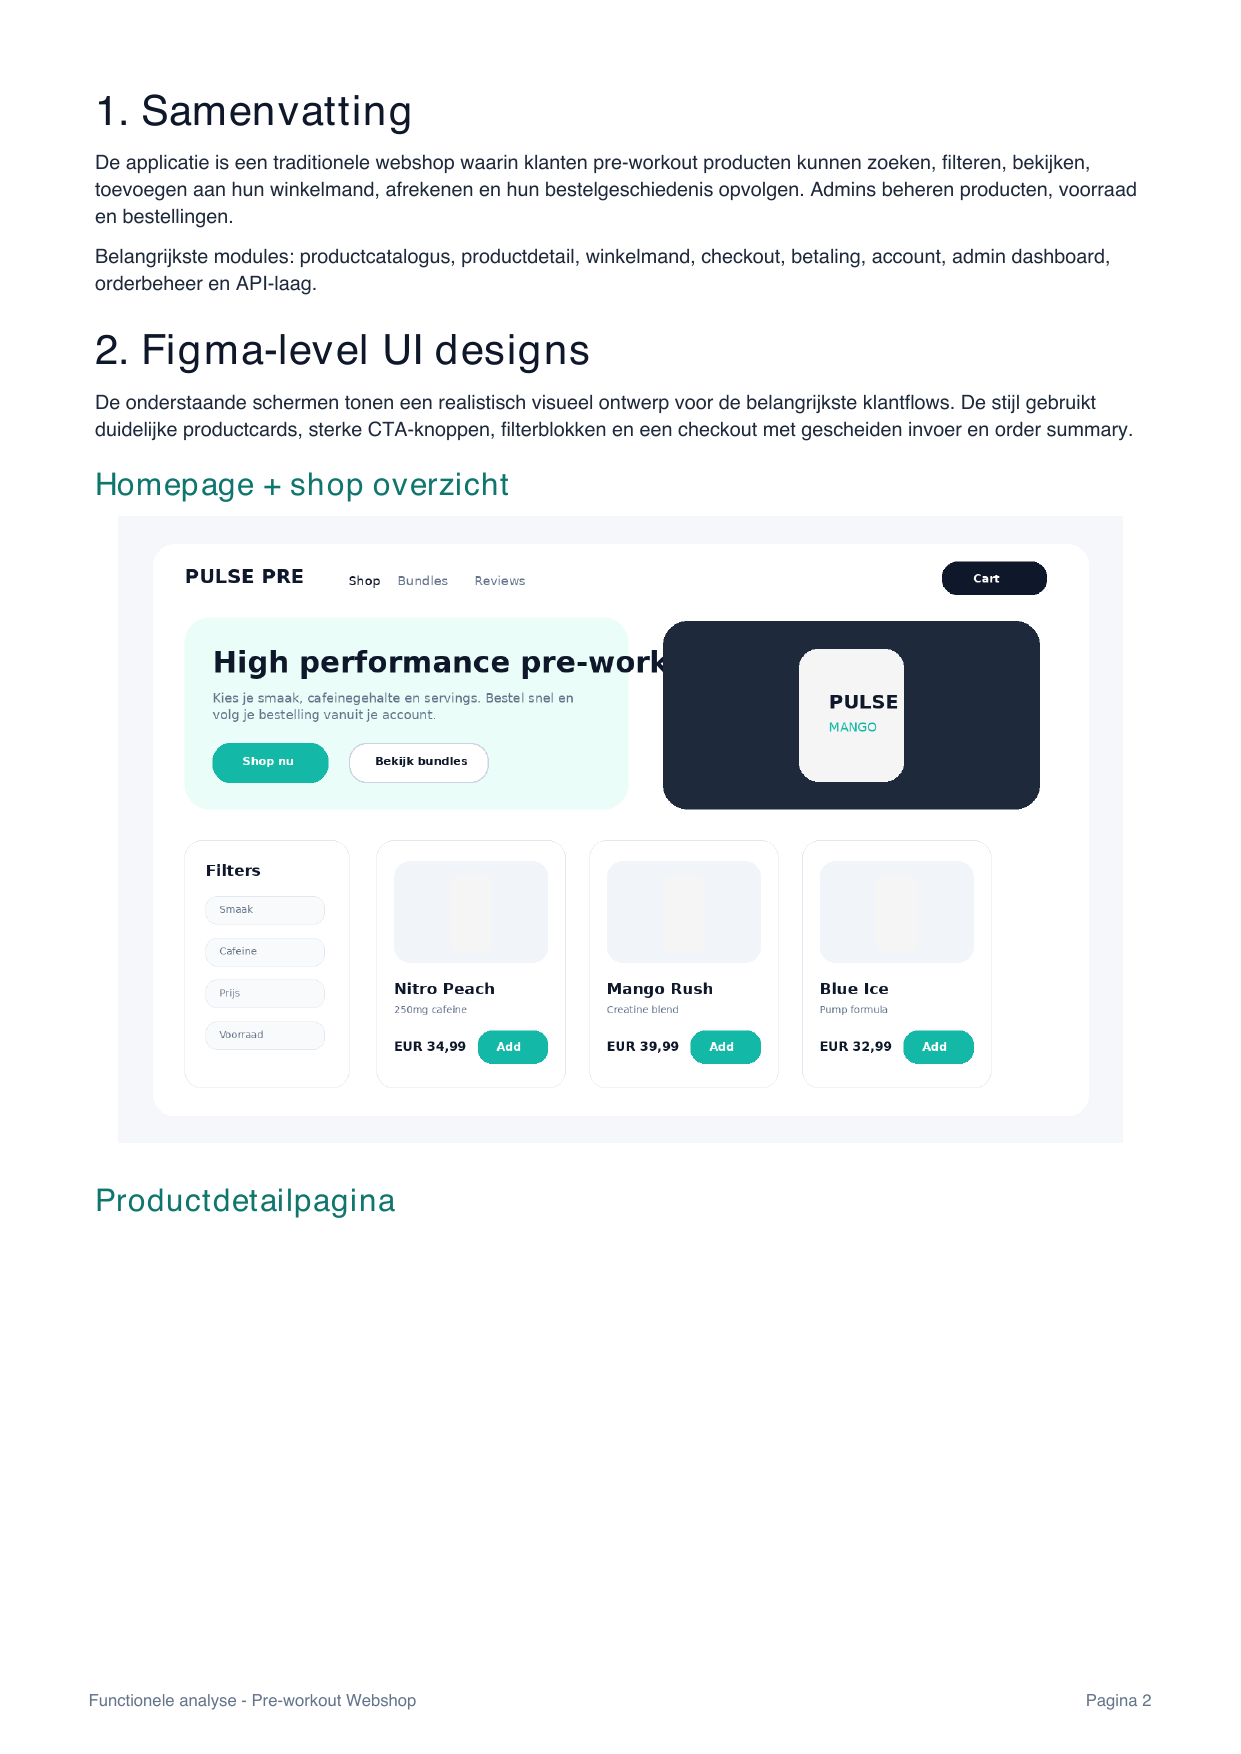
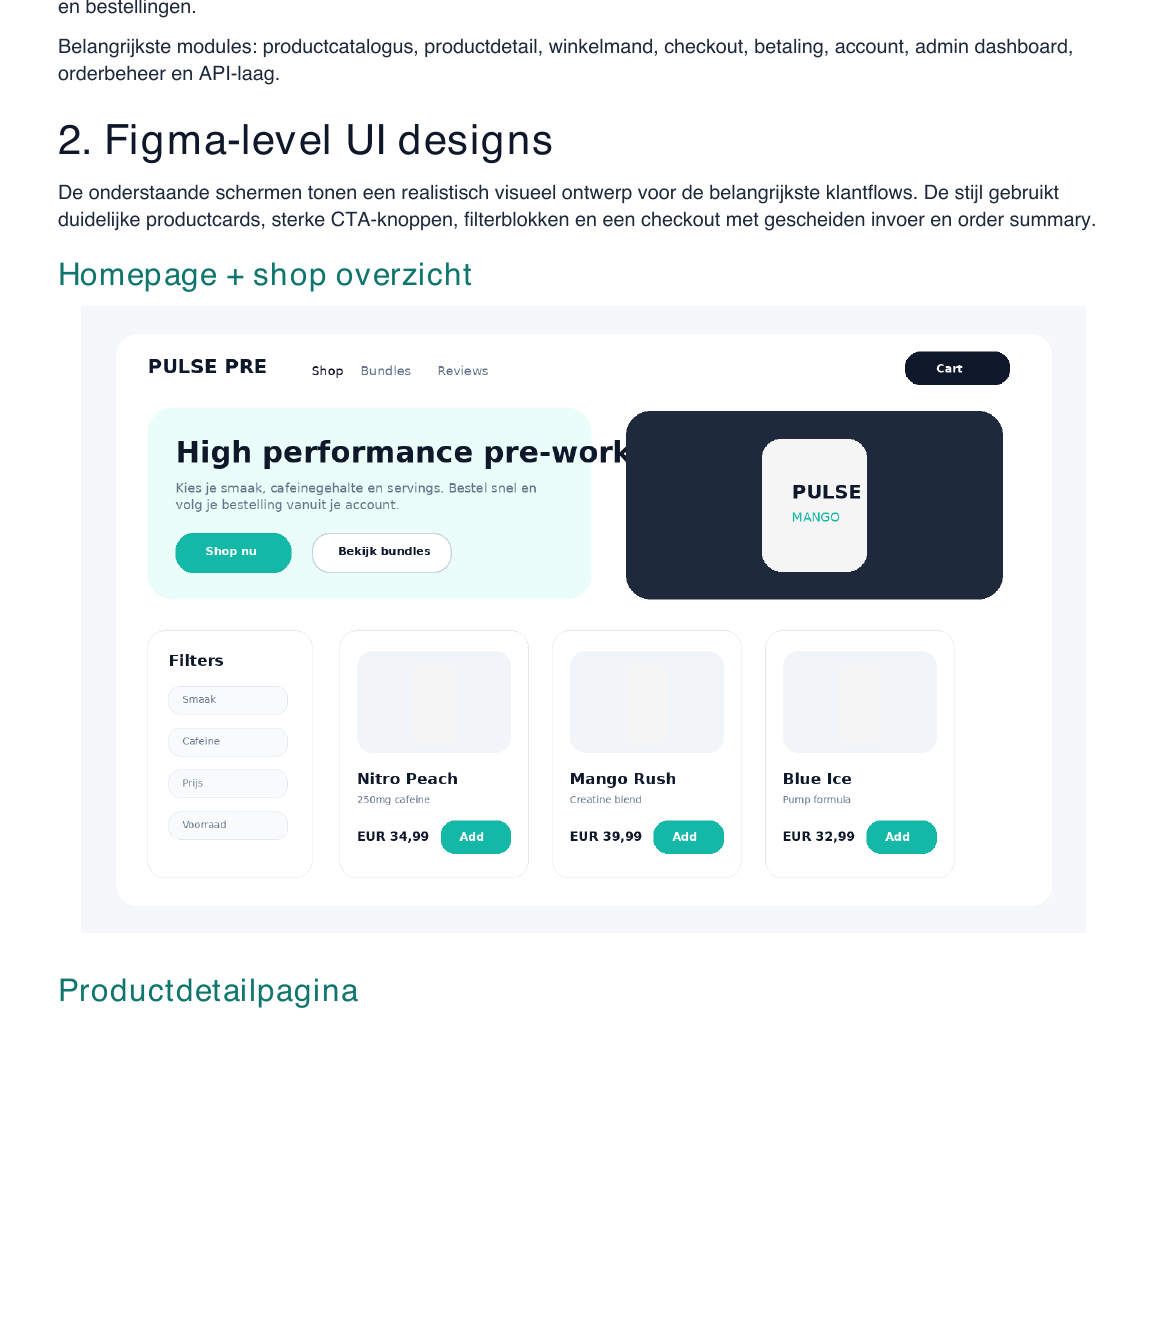
docs(fa): update feature-011 FA with cropped diagram and UI design images
Page images are now cropped to content area only, removing headers,
footers and surrounding whitespace from each diagram page.

diff --git a/docs/functional-analysis/feature-011-preworkout-website.md b/docs/functional-analysis/feature-011-preworkout-website.md
@@ -2,91 +2,68 @@
 
 ## Project
 
-| Project |  |
+| Project | Full stack webshop voor pre-workout supplementen |
 |---|---|
-| Primaire actor | Full stack webshop voor pre-workout supplementen |
-| Secundaire actor | Klant |
-|  | Admin, betalingsprovider |
+| Primaire actor | Klant |
+| Secundaire actor | Admin, betalingsprovider |
 
-Uitgebreide versie met Figma-level UI designs, UML diagrams, database ERD en API contracten.
+## 2. Figma-level UI designs
 
-## Samenvatting
+![Figma-level UI designs](feature-011-preworkout-website/page-2.png)
 
-De applicatie is een traditionele webshop waarin klanten pre-workout producten kunnen zoeken, filteren, bekijken, toevoegen aan hun winkelmand, afrekenen en hun bestelgeschiedenis opvolgen. Admins beheren producten, voorraad en bestellingen.
-
-Belangrijkste modules: productcatalogus, productdetail, winkelmand, checkout, betaling, account, admin dashboard, orderbeheer en API-laag.
-
-## Figma-level UI designs
-
-De onderstaande schermen tonen een realistisch visueel ontwerp voor de belangrijkste klantflows. De stijl gebruikt duidelijke productcards, sterke CTA-knoppen, filterblokken en een checkout met gescheiden invoer en order summary.
+Deze schermen tonen een realistisch visueel ontwerp voor de belangrijkste klantflows. De stijl gebruikt duidelijke productcards, sterke CTA-knoppen, filterblokken en een checkout met gescheiden invoer en order summary.
 
 ### Homepage + shop overzicht
 
-![Homepage + shop overzicht](feature-011-preworkout-website/page-2.png)
-
-Dit scherm toont de homepage met een hero sectie en een overzicht van beschikbare producten. Klanten kunnen producten filteren op basis van verschillende criteria.
-
 ### Productdetailpagina
-
-![Productdetailpagina](feature-011-preworkout-website/page-3.png)
-
-Dit scherm toont de detailpagina van een specifiek product. Hier kan de klant meer informatie vinden, het product toevoegen aan de winkelmand en eventueel favoriet maken.
 
 ### Checkout en order summary
 
-![Checkout en order summary](feature-011-preworkout-website/page-4.png)
+## Sequence diagram - checkout en betaling
 
-Dit scherm toont het checkout proces, inclusief velden voor verzendgegevens en betaalmethoden. De order summary toont een overzicht van de geselecteerde producten en de totale kosten.
+![Sequence diagram - checkout en betaling](feature-011-preworkout-website/page-4.png)
 
-## Uitgebreide UML diagrams
+Deze flow toont hoe klant, frontend, API, database en betalingsprovider samenwerken bij afrekenen.
 
-De UML diagrammen ondersteunen de analyse van gedrag, architectuurcomponenten en deployment.
+## Component diagram
 
-### Sequence diagram - checkout en betaling
+![Component diagram](feature-011-preworkout-website/page-5.png)
 
-![Sequence diagram - checkout en betaling](feature-011-preworkout-website/page-5.png)
+Dit diagram toont de interactie tussen de frontend, backend API, database, admin dashboard en payment provider.
 
-Deze flow toont hoe klant, frontend, API, database en betalingsprovider samenwerken bij het afrekenen.
+## Deployment Diagram
 
-### Component diagram
+![Deployment Diagram](feature-011-preworkout-website/page-6.png)
 
-![Component diagram](feature-011-preworkout-website/page-6.png)
-
-Dit diagram toont de logische applicatiecomponenten en hun verantwoordelijkheden.
-
-### Deployment diagram
-
-![Deployment diagram](feature-011-preworkout-website/page-7.png)
-
-Dit diagram toont een mogelijke cloud deployment met client, CDN, app service, database en payment gateway.
+Dit diagram illustreert de architectuur van de webshop, van de client browser tot de cloud VM en de database.
 
 ## Database ERD
 
-De database bestaat uit gebruikers, producten, winkelmanditems, bestellingen, orderregels en betalingen. De belangrijkste relaties zijn User 1-N Order, Order 1-N OrderItem, Product 1-N OrderItem, User 1-N CartItem en Order 1-1 Payment.
+![Database ERD](feature-011-preworkout-website/page-7.png)
 
-![Database ERD](feature-011-preworkout-website/page-8.png)
+Het ERD toont de relaties tussen de tabellen User, CartItem, Product, Order en Payment.
 
-## API contracten
+## 5. API contracten
 
-Onderstaande contracten geven een concrete basis voor backend implementatie. Alle endpoints onder order/admin vereisen een geldige token. Klantgebonden endpoints vereisen een geldige JWT access token.
+Onderstaande contracten geven een concrete basis voor backend implementatie. Alle endpoints onder /admin vereisen de rol Admin. Klantgebonden endpoints vereisen een geldige JWT access token.
 
 | Endpoint | Request | Response |
 |---|---|---|
-| GET /api/products | Query: search, flavor, minPrice, maxPrice, caffeineMin, caffeineMax, isStock, sort, page, pageSize | 200: Paged list van actieve producten met id, name, price, image, stockStatus |
+| GET /api/products | Query: search, flavor, minPrice, maxPrice, caffeineMin, caffeineMax, isStock, sort, page, pageSize | 200: Paged list van actieve producten met id, name, price, imageUrl, stockStatus |
 | GET /api/products/{id} | Path: product id | 200: productdetail; 404: product niet gevonden |
 | POST /api/auth/register | firstName, lastName, email, password | 201: user + token; 409: email bestaat al |
-| POST /api/auth/login | email, password | 200: access token + user; 401: ongeldige token |
+| POST /api/auth/login | email, password | 200: access token + user; 401: ongeldige login |
 | GET /api/cart | JWT token | 200: cart items + totals |
-| POST /api/cart/items | JWT token, quantity | 201: cart item; 400: quantity ongeldig; 409: onvoldoende voorraad |
-| PATCH /api/cart/items/{id} | quantity, Path: cart item id | 200: aangepast item; 404: item niet gevonden |
+| POST /api/cart/items | JWT token, productid, quantity | 201: cart item; 400: quantity ongeldig; 409: onvoldoende voorraad |
+| PATCH /api/cart/items/{id} | Path: cart item id, quantity | 200: aangepast item; 404: item niet gevonden |
 | DELETE /api/cart/items/{id} | Path: cart item id | 204: verwijderd |
 | POST /api/orders | JWT token, shippingAddress, paymentMethod | 201: order pending + paymentUrl; 400: leeg mandje; 409: voorraadprobleem |
 | POST /api/payments/webhook | Provider payload met transactionReference en status | 200: webhook verwerkt; update orderstatus |
-| POST /api/admin/products | name, description, price, flavor, caffeineMg, servings, stock, imageURL | 201: nieuw product; 400: validatiefout |
+| POST /api/admin/products | name, description, price, flavor, caffeineMg, servings, stock, imageUrl | 201: nieuw product; 400: validatiefout |
 | PUT /api/admin/products/{id} | Volledige productupdate | 200: aangepast product; 404: product niet gevonden |
-| PATCH /api/admin/orders/{id}/status | status | 200: aangepaste bestelling; 400: ongeldige statusovergang |
+| PATCH /api/admin/orders/{id} | status | 200: aangepaste bestelling; 400: ongeldige statusovergang |
 
-## Acceptance criteria - kernflows
+## 6. Acceptance criteria - kernflows
 
 ### REQ-001: Producten bekijken
 * AC-001-1: Gegeven actieve producten bestaan, wanneer de klant de shop opent, dan ziet hij producten met naam, prijs, afbeelding en voorraadstatus.
@@ -94,7 +71,7 @@ Onderstaande contracten geven een concrete basis voor backend implementatie. All
 
 ### REQ-002: Product toevoegen aan winkelmand
 * AC-002-1: Gegeven voldoende voorraad, wanneer de klant een hoeveelheid toevoegt, dan verschijnt het product in het winkelmandje.
-* AC-002-2: Gegeven de hoeveelheid groter is dan voorraad, dan wordt de actie geweigerd met foutmelding.
+* AC-002-2: Gegeven de hoeveelheid groter is dan de voorraad, dan wanneer de klant toevoegt, dan wordt de actie geweigerd met melding.
 
 ### REQ-003: Bestelling plaatsen
 * AC-003-1: Gegeven een gevuld winkelmandje en geldig adres, wanneer de klant bevestigt, dan wordt een order aangemaakt met status Pending.
@@ -106,13 +83,13 @@ Onderstaande contracten geven een concrete basis voor backend implementatie. All
 
 ### REQ-005: Admin productbeheer
 * AC-005-1: Gegeven adminrechten, wanneer admin product aanmaakt, dan verschijnt het in de catalogus.
-* AC-005-2: Gegeven adminrechten, wanneer gebruiker admin endpoint aanroept, dan krijgt hij 403 Forbidden.
+* AC-005-2: Gegeven geen adminrechten, wanneer gebruiker admin endpoint aanroept, dan krijgt hij 403 Forbidden.
 
-## Non-functional requirements
+## 7. Non-functional requirements
 
 * NFR-001: Responsive op desktop, tablet en mobiel.
 * NFR-002: Productoverzicht laadt binnen 2 seconden bij normale belasting.
 * NFR-003: Wachtwoorden worden gehasht opgeslagen.
-* NFR-004: Betalingsgegevens worden niet lokaal opgeslagen; de betaalprovider verklaart kaar- of bankgegevens.
+* NFR-004: Betalingsgegevens worden niet lokaal opgeslagen; de betaalprovider verklaart of bankgegevens.
 * NFR-005: API endpoints gebruiken validatie, authenticatie en autorisatie.
 * NFR-006: Database bevat constraints voor unieke e-mailadressen, unieke payment references en geldige hoeveelheden.
